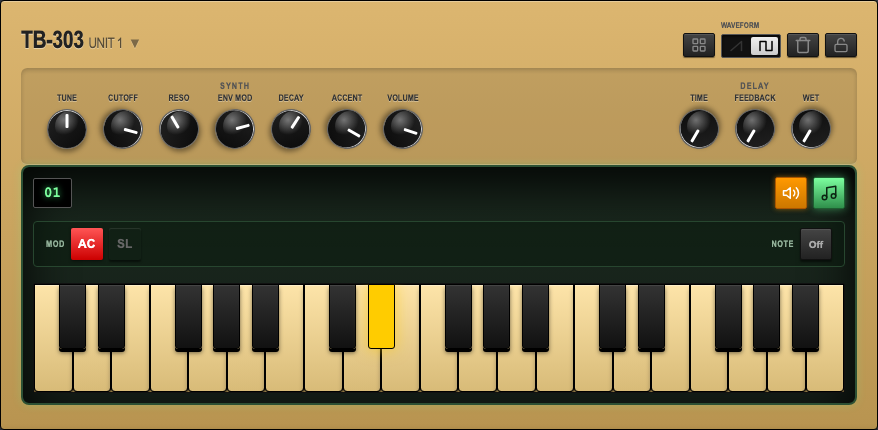
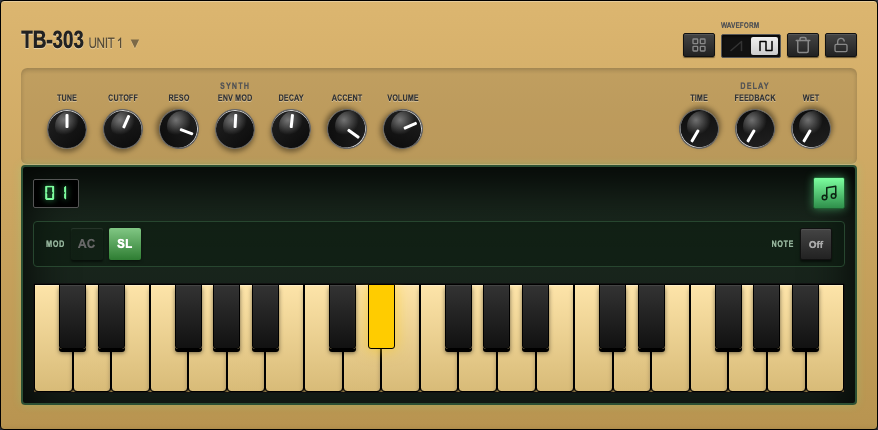
chore: refine live mode UI and bump to v1.0.3

diff --git a/css/machines.css b/css/machines.css
@@ -173,6 +173,10 @@
     box-sizing: border-box;
     width: 100%;
     position: relative;
+    max-height: 1000px;
+    overflow: hidden;
+    opacity: 1;
+    transition: max-height 0.2s ease, opacity 0.2s ease, padding 0.2s ease, margin 0.2s ease, border-width 0.2s ease;
 }
 
 .note-editor.live-mode {
@@ -182,7 +186,12 @@
 }
 
 .machine.collapsed .note-editor {
-    display: none !important;
+    max-height: 0;
+    opacity: 0;
+    padding: 0 10px;
+    margin: 0;
+    border-width: 0;
+    pointer-events: none;
 }
 
 .editor-header {
@@ -200,9 +209,10 @@
 
 .editor-header .step-indicator {
     color: #ff3333;
-    font-family: 'Courier New', monospace;
-    font-weight: bold;
+    font-family: 'DSEG7Classic', monospace;
+    font-weight: normal;
     font-size: 14px;
+    letter-spacing: 0.5px;
     min-width: 25px;
     text-align: center;
     text-shadow: 0 0 5px rgba(255, 0, 0, 0.5);
@@ -215,6 +225,10 @@
 
 .note-editor.live-mode .prev-btn,
 .note-editor.live-mode .next-btn {
+    display: none;
+}
+
+.note-editor.live-mode .preview-toggle-btn {
     display: none;
 }
 

diff --git a/index.html b/index.html
@@ -92,7 +92,7 @@
     <div class="top-bar">
       <div class="controls-row">
         <div class="transport-controls">
-          <div class="version-display">v143</div>
+          <div class="version-display">v144</div>
           <button id="fileManagerBtn" class="transport-icon-btn" title="File Manager" aria-label="File Manager">
             <span class="icon icon-lg icon-folder"></span>
           </button>

diff --git a/css/overlays.css b/css/overlays.css
@@ -53,7 +53,6 @@
     font-size: 12px;
 }
 
-.note-editor,
 .file-manager-popover,
 .add-track-modal,
 .settings-popover,

diff --git a/docs/TODO.md b/docs/TODO.md
@@ -4,7 +4,7 @@
 - [ ] (EPIC) Mixer
 - [ ] (EPIC) Effects
 - [ ] (EPIC) LRC 기반 완전 자동화 영상 생성기
-- [ ] Pitch mode
+- [x] 303 Live Mode
 - [ ] Pattern transpose +1, -1
 - [ ] Pattern shift +1, -1
 - [ ] Drum Synth Sound 파일 관리
